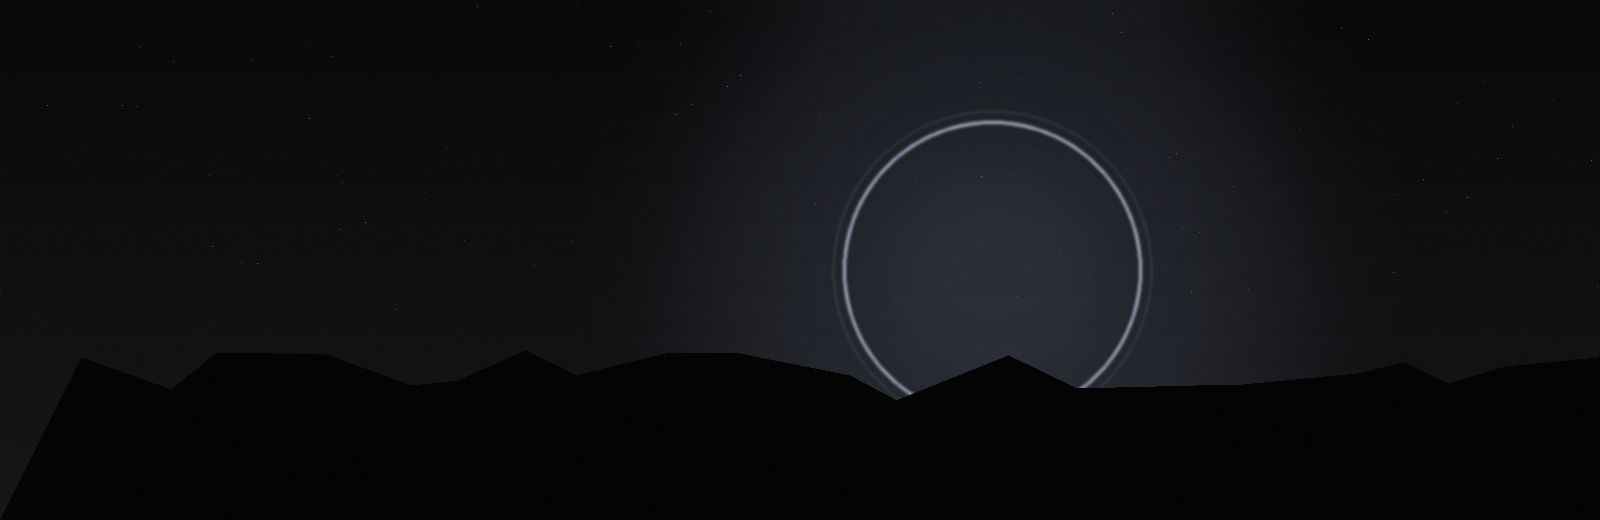
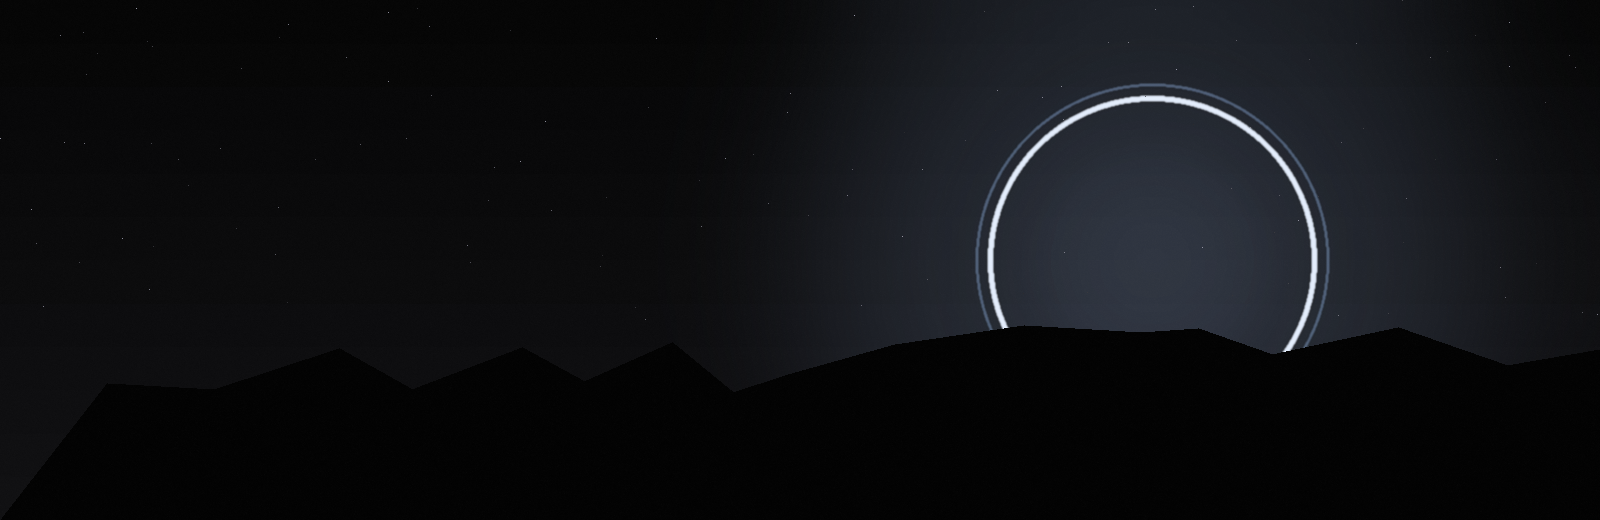
feat(desktop): NFTs + Staking sections, brighter portal hero backdrop
- Nav gains NFTs and Staking (with IsNfts/IsStaking flags) to match the full
  reference design; both are honest "coming soon" empty-state pages — the
  features aren't built, so nothing is faked.
- Regenerated the hero backdrop brighter with the glowing portal on the right,
  by the brand mark.

Note: the reference 'loop' logo couldn't be recreated procedurally and the
pasted image can't be saved as a file here; the umbrella mark stays until the
real logo PNG is dropped into Assets/.

diff --git a/desktop/src/Umbrella.Wallet.App/ViewModels/MainViewModel.cs b/desktop/src/Umbrella.Wallet.App/ViewModels/MainViewModel.cs
@@ -490,6 +490,9 @@ public partial class MainViewModel : ViewModelBase
     /// Click an item to read the full note. Newest first.</summary>
     public ObservableCollection<NewsItemViewModel> News { get; } =
     [
+        new("UPDATE", "NFTs and Staking sections, brighter hero",
+            "The navigation now includes NFTs and Staking to match the full design — both with honest 'coming soon' pages for now (the features aren't built yet, so nothing is faked). The Portfolio hero backdrop is brighter, with the glowing portal to the right by the brand mark.",
+            "2026-07-30"),
         new("UPDATE", "Dashboard rail, price ticker, and a monochrome primary",
             "The Portfolio now has a right-hand rail — a portfolio-overview ring, recent activity, and a live market overview — and a price ticker runs along the bottom, matching the reference dashboard.\n\n" +
             "The primary theme is now monochrome noir (near-black with cool-white accents, so the main buttons read white on black); the red editorial look lives on as the Ember theme. This is a structural pass — spacing and the overview ring will be refined next.",
@@ -596,6 +599,8 @@ public partial class MainViewModel : ViewModelBase
     public bool IsConnect => ActiveSection == "Connect";
     public bool IsMarket => ActiveSection == "Market";
     public bool IsNews => ActiveSection == "News";
+    public bool IsNfts => ActiveSection == "Nfts";
+    public bool IsStaking => ActiveSection == "Staking";
 
     // --- Onboarding state machine: each is a full-screen page, sidebar only in the workspace ---
     public bool IsWelcomeStage => !HasVault && SetupStage == "Welcome";
@@ -714,6 +719,8 @@ public partial class MainViewModel : ViewModelBase
         OnPropertyChanged(nameof(IsConnect));
         OnPropertyChanged(nameof(IsMarket));
         OnPropertyChanged(nameof(IsNews));
+        OnPropertyChanged(nameof(IsNfts));
+        OnPropertyChanged(nameof(IsStaking));
         OnPropertyChanged(nameof(IsWelcomeStage));
         OnPropertyChanged(nameof(IsCreateStage));
         OnPropertyChanged(nameof(IsImportStage));
